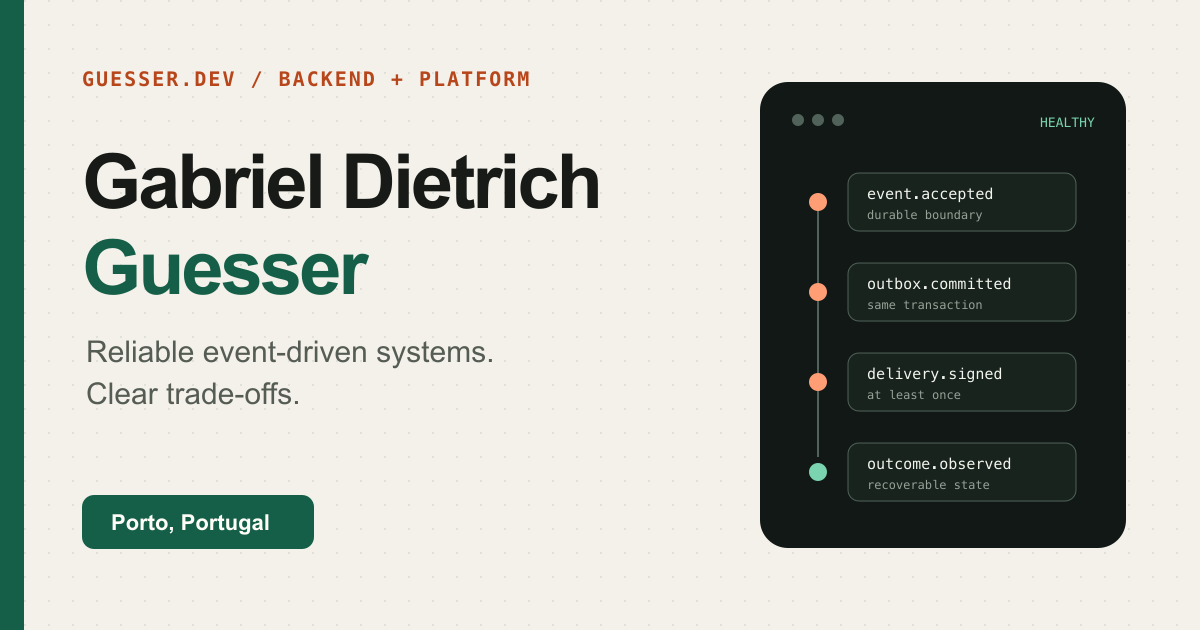
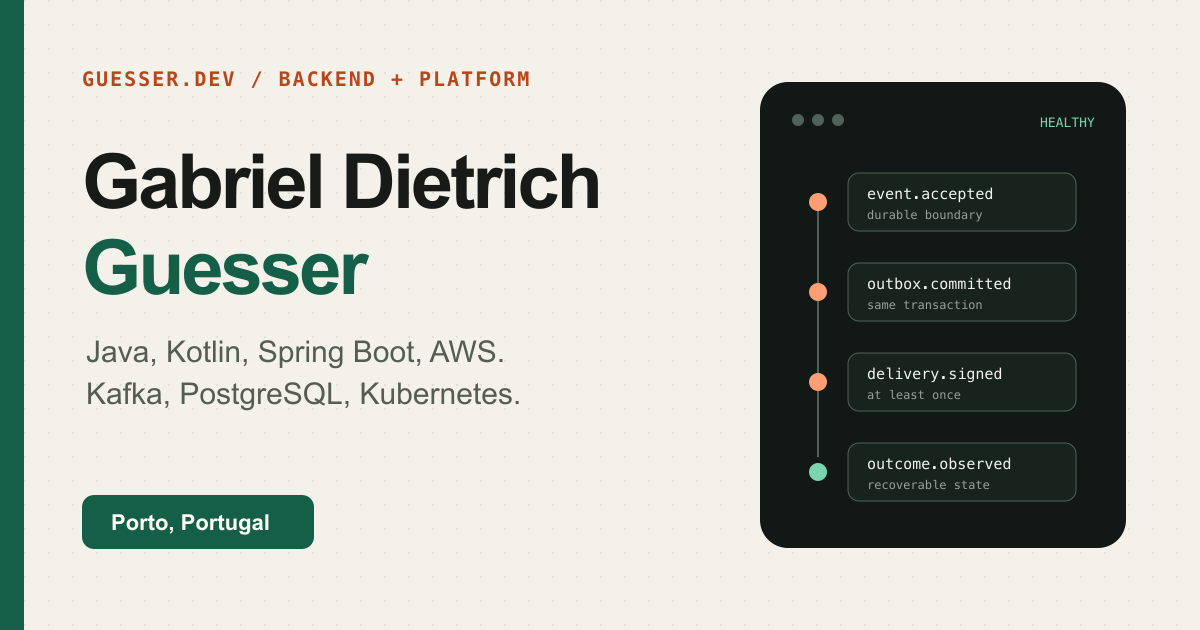
Use direct language across the portfolio

Changed region(s): [[0.0617, 0.6032, 0.4317, 0.6635], [0.0617, 0.5429, 0.4317, 0.573]]

diff --git a/src/consts.ts b/src/consts.ts
@@ -1,7 +1,7 @@
 export const SITE_TITLE = "Gabriel Dietrich Guesser";
 
 export const SITE_DESCRIPTION =
-  "Backend and platform engineer in Porto building reliable event-driven systems with Kotlin, TypeScript, cloud infrastructure, and pragmatic operations.";
+  "Backend engineer in Porto working with Java, Kotlin, Spring Boot, AWS, Kafka, PostgreSQL, and Kubernetes.";
 
 export const SOCIAL_LINKS = {
   github: "https://github.com/gdguesser",

diff --git a/tests/site.spec.ts b/tests/site.spec.ts
@@ -66,7 +66,7 @@ test("metadata and generated social image are complete", async ({
   await expect(page).toHaveTitle("Gabriel Dietrich Guesser");
   await expect(page.locator('meta[name="description"]')).toHaveAttribute(
     "content",
-    /backend and platform engineer/i,
+    /backend engineer/i,
   );
   await expect(page.locator('link[rel="canonical"]')).toHaveAttribute(
     "href",

diff --git a/src/content/writing/reliable-webhook-delivery.md b/src/content/writing/reliable-webhook-delivery.md
@@ -1,6 +1,6 @@
 ---
 title: "Reliable webhook delivery: designing for the failures between systems"
-description: "A practical guide to transactional outboxes, at-least-once delivery, idempotency, jittered retries, dead letters, replay, signatures, and the limits that remain."
+description: "Notes from building Webhook Relay: transactional outboxes, at-least-once delivery, idempotency, retries, dead letters, replay, and request signing."
 publishedAt: 2026-08-06
 draft: false
 tags:
@@ -9,20 +9,17 @@ tags:
   - Kotlin
 ---
 
-A webhook looks simple from the outside: serialize an event, send an HTTP
-request, and mark it delivered. The difficult part is not the request. It is
-preserving a useful answer to three questions while processes, networks, and
-dependencies fail:
+I built [Webhook Relay](https://github.com/gdguesser/webhook-relay) because
+“send an HTTP request” hides most of the interesting work in webhook delivery.
+The project had to answer three questions:
 
 1. Did the system durably accept the event?
 2. Will every intended destination eventually be attempted?
 3. Can an operator understand and safely recover what did not succeed?
 
-This article develops one answer using the public
-[Webhook Relay reference implementation](https://github.com/gdguesser/webhook-relay).
-The project is deliberately small and not presented as production-proven. That
-makes it useful for examining the boundaries without pretending that a sample
-repository solves every operational problem.
+The repository is small enough to follow from the API to the worker. This is how
+I handled those boundaries and where the implementation still stops short of a
+production service.
 
 ## Start with a precise acceptance boundary
 
@@ -67,7 +64,7 @@ If the process dies before `COMMIT`, none of the work exists. If it dies after
 `COMMIT`, the outbox row remains available for another publisher pass. This
 closes the lost-work gap, but it does not make publishing exactly once.
 
-## At-least-once is the honest contract
+## Why the contract is at least once
 
 An outbox publisher normally performs two independent actions:
 
@@ -91,7 +88,7 @@ It cannot prove that arbitrary side effects behind an HTTP endpoint happened
 exactly once when the acknowledgment is lost. Naming the actual boundary is
 more valuable than applying the stronger label to the whole path.
 
-## Idempotency belongs at more than one layer
+## Idempotency at ingestion and delivery
 
 There are two different duplicate problems here.
 
@@ -133,7 +130,7 @@ An in-memory cache is not a durable deduplication boundary. A separate
 “processed” write made before or after the business transaction recreates a
 dual-write problem at the receiver.
 
-## Claim work so crashes are recoverable
+## Worker claims and leases
 
 Multiple workers should be able to process deliveries without routinely
 colliding. The project uses a database lease and a processing token when a
@@ -155,7 +152,7 @@ for scheduling delay, while still short enough to recover abandoned work. The
 system should expose lease-expiry and stale-result metrics; otherwise a tuning
 problem looks like random duplication.
 
-## Retry only failures that may improve
+## Deciding what to retry
 
 Retries are useful when another attempt has a reasonable chance of changing the
 outcome. Retrying every non-`2xx` response wastes capacity and delays operator
@@ -195,12 +192,11 @@ Retries also need a finite attempt budget. The project defaults to eight
 attempts and then dead-letters the delivery. An infinite retry loop is not
 reliability; it is an unbounded queue of work that may never succeed.
 
-One known limitation is that the current reference worker does not honor
-`Retry-After`. A production policy should consider a valid server-provided
-delay, clamp it to an acceptable range, and still apply overall retention and
-attempt limits.
+The worker currently ignores `Retry-After`. I would handle a valid
+server-provided delay in a production version, clamp it to an acceptable range,
+and still enforce the overall retention and attempt limits.
 
-## Dead letters are durable operational state
+## What goes into a dead letter
 
 After the retry budget is exhausted—or after an immediately terminal
 response—the system needs to retain more than a log line. A dead-letter record
@@ -221,7 +217,7 @@ redacted diagnostics and explicit retention. Payloads, outbox rows, and dead
 letters all need cleanup or archival policies; the reference project calls out
 that these policies are not automated.
 
-## Replay is a new operation, not erased history
+## Replaying a failed delivery
 
 Once an endpoint is repaired, an operator may want to replay a failed delivery.
 A safe replay should be explicit, auditable, and idempotent as an operation.
@@ -245,7 +241,7 @@ include API authentication, authorization, tenant isolation, quotas, or rate
 limiting. Those are prerequisites before placing such operations in a shared
 environment.
 
-## Sign the exact bytes sent
+## Signing the request body
 
 Transport encryption protects a request in transit, but a receiver may also
 need to verify that the request came from a holder of the endpoint secret and
@@ -279,7 +275,7 @@ audit events, and an external key-management strategy. The reference project
 encrypts endpoint secrets with AES-GCM, but does not implement master-key
 rotation or external KMS integration.
 
-## Observability should explain state transitions
+## Metrics and logs
 
 Request counts and process CPU are useful, but they do not answer whether the
 delivery pipeline is healthy. Observe the state machine.
@@ -310,7 +306,7 @@ can currently serve work. Marking a process dead because a dependency is
 temporarily unavailable can create restart loops precisely when the dependency
 needs less load.
 
-## Test the ambiguous moments
+## Tests around failure boundaries
 
 The happy path is easy to demonstrate. Reliability comes from tests around
 transaction and crash boundaries.
@@ -329,13 +325,12 @@ High-value cases include:
 - URL policy rejects private or reserved destinations.
 
 The project uses PostgreSQL Testcontainers for persistence behavior and
-WireMock for receiver, signature, and transient-failure scenarios. That is
-stronger evidence than mocks alone, but it remains test evidence—not a
-substitute for load tests, fault injection, and observation under real traffic.
+WireMock for receiver, signature, and transient-failure scenarios. These tests
+cover more than mocked units, but I have not run load or fault-injection tests.
 
-## The limitations are part of the design
+## What this project does not cover
 
-The reference repository intentionally leaves production concerns visible:
+The repository does not include:
 
 - no API authentication, authorization, tenant isolation, quotas, or rate limits;
 - no automated payload, outbox, or dead-letter cleanup;
@@ -347,15 +342,13 @@ The reference repository intentionally leaves production concerns visible:
   high-availability topology;
 - no load testing and no throughput or latency claims.
 
-There are also broader design choices a production team must make: ordering
-requirements, endpoint versioning, payload evolution, regional failover,
-privacy deletion, backpressure, per-tenant fairness, and incident ownership.
-Adding every mechanism by default can make a small system harder to reason
-about. Omitting one without naming the consequence is worse.
+There are other choices a production team would still need to make: ordering,
+endpoint versioning, payload evolution, regional failover, privacy deletion,
+backpressure, per-tenant fairness, and incident ownership.
 
-## A practical reliability contract
+## The resulting contract
 
-A defensible webhook service can make these promises:
+The contract I settled on is:
 
 1. Acceptance means the event and dispatch intent were committed together.
 2. Delivery is at least once, so receivers get a stable deduplication key.
@@ -366,6 +359,5 @@ A defensible webhook service can make these promises:
 7. Metrics describe backlog age and state transitions; logs carry identifiers.
 8. Limitations and missing controls are documented plainly.
 
-The result is not failure-free delivery. It is something more useful: a system
-whose uncertainty is bounded, whose duplicates are manageable, and whose
-failures can be understood and recovered without guessing.
+This does not remove failure or duplicates. It gives the sender, receiver, and
+operator clear behavior when they happen.
